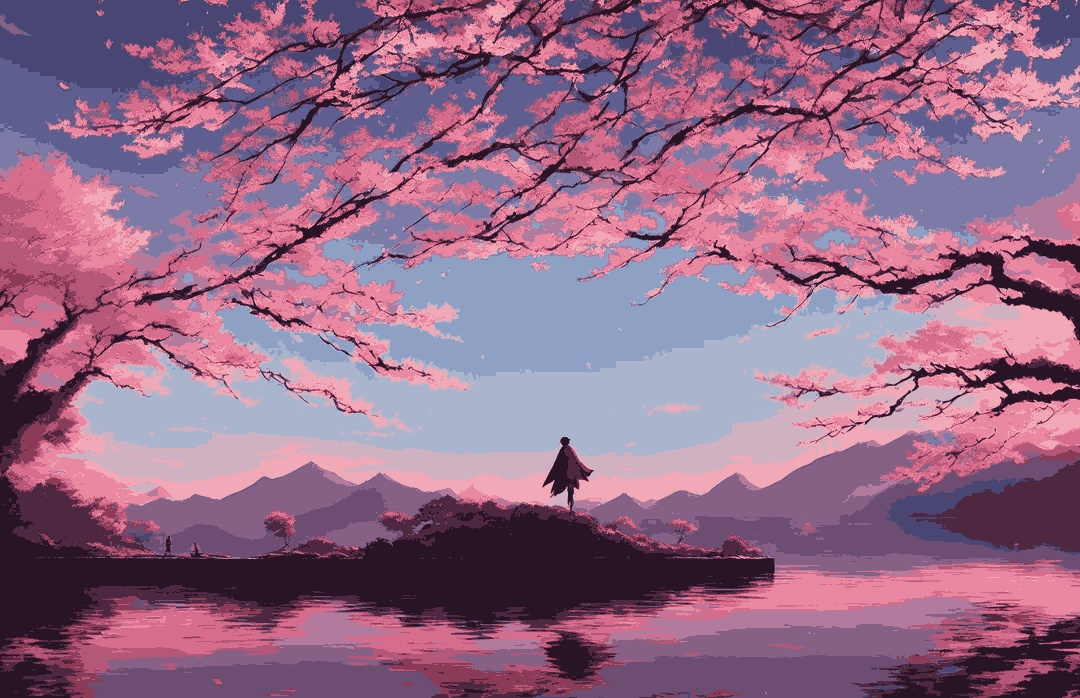
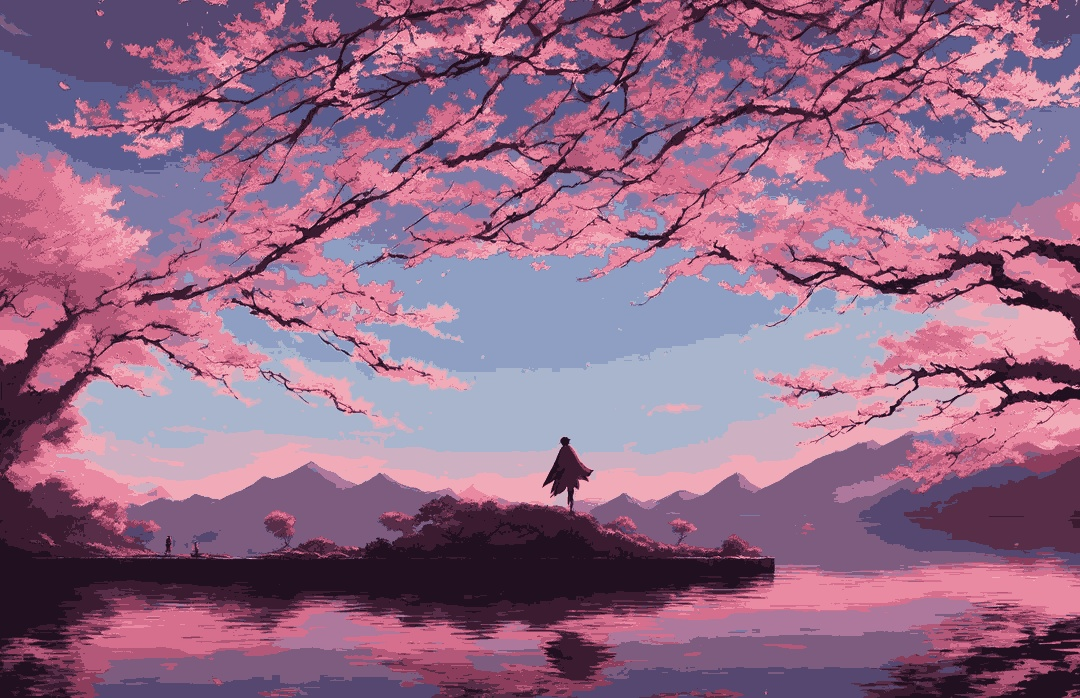
fix: change the number of iterations, and regenerate the image

diff --git a/main.py b/main.py
@@ -94,7 +94,7 @@ class KMeans:
 img = cv2.imread("image.jpg")
 
 # Initialize KMeans object and perform compression
-kmeans = KMeans(img, 16, 20)
+kmeans = KMeans(img, 16, 100)
 compressed_image = kmeans.compress()
 
 # Display compressed image
